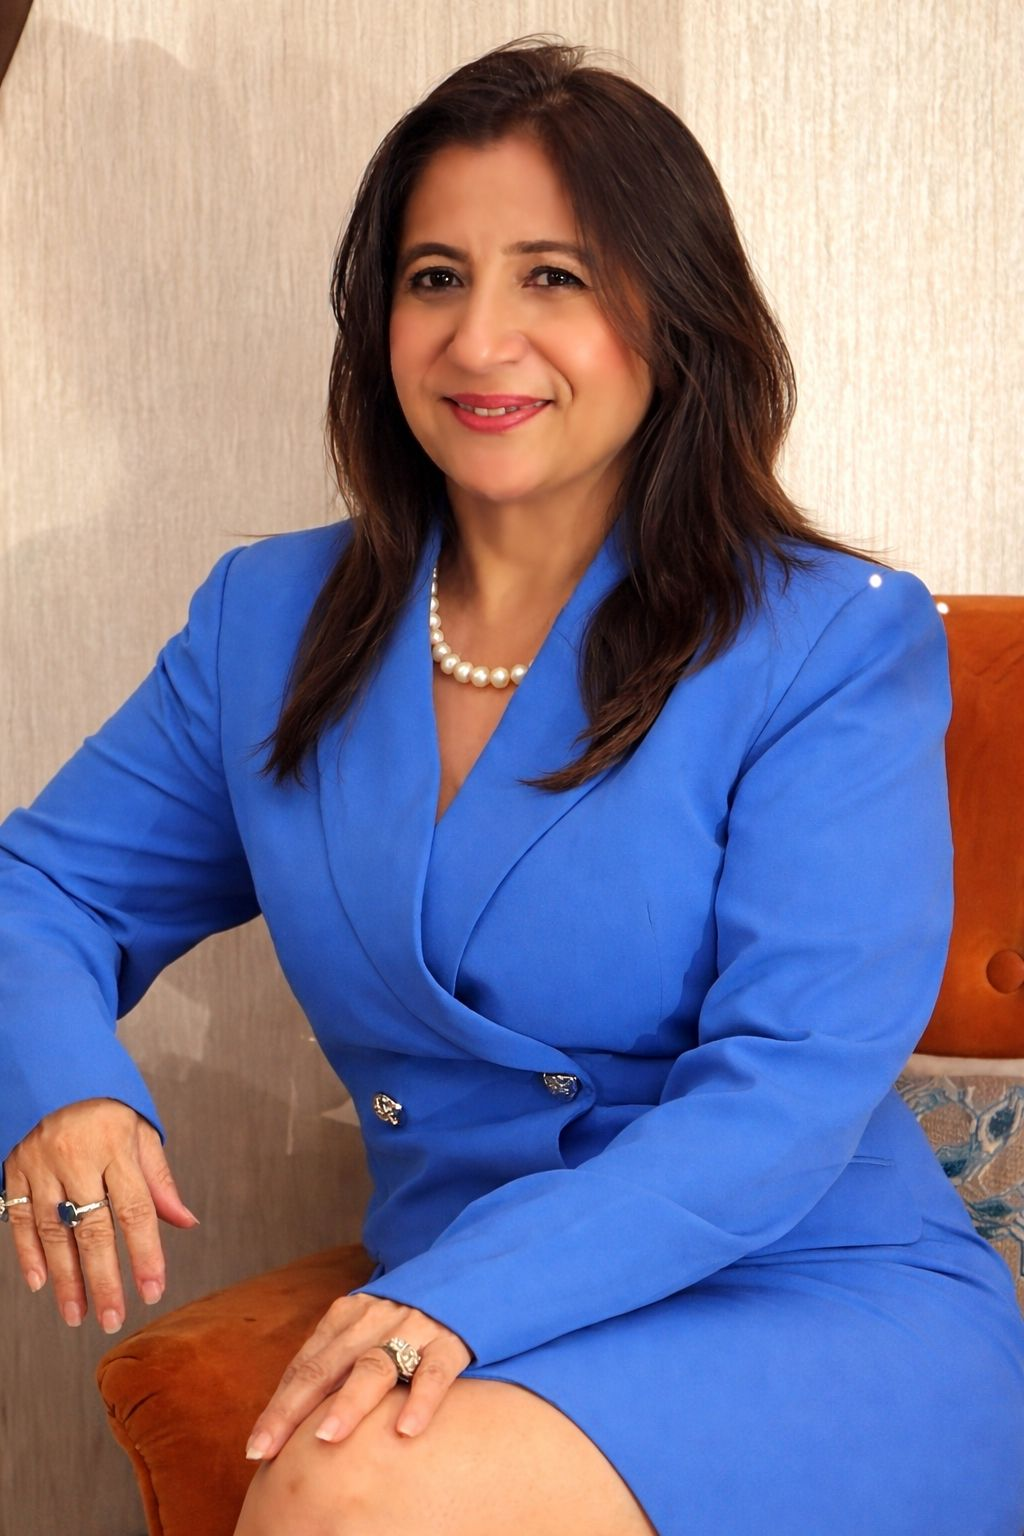
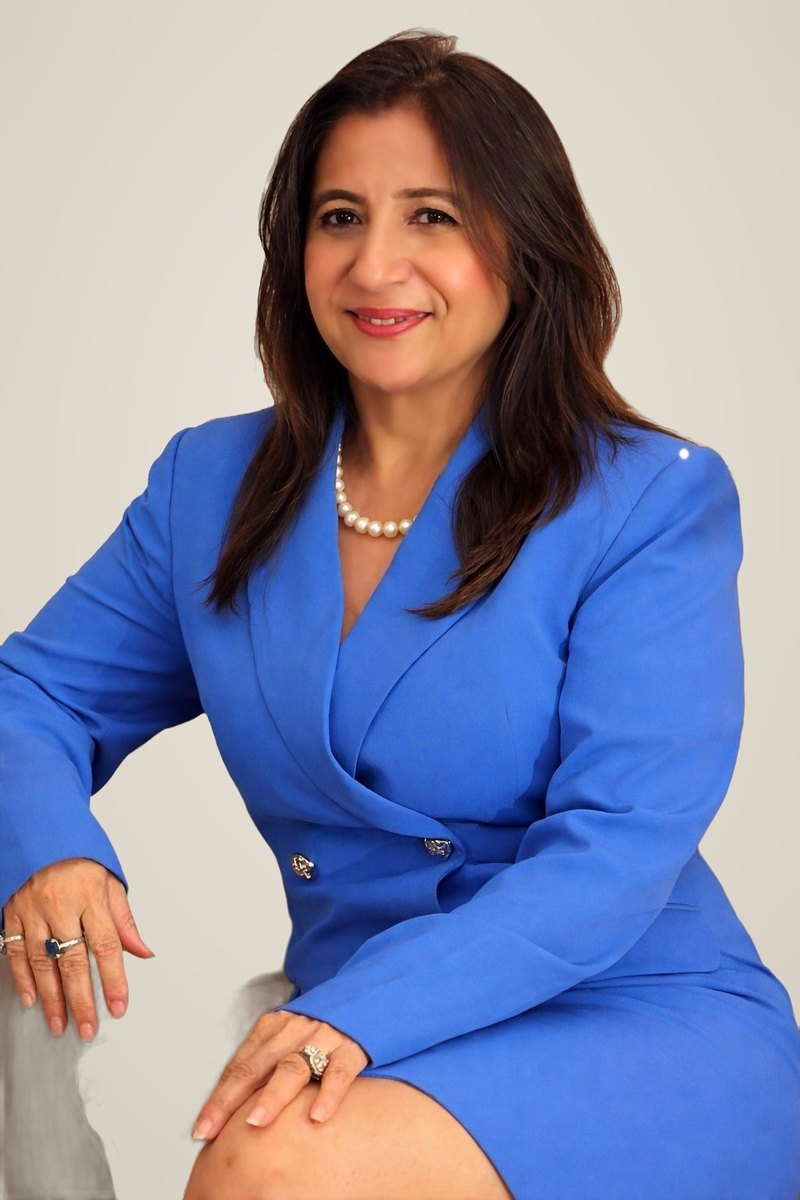
Put team photos on one backdrop and add the app QR to the navbar
Client replies to our 8 Oct questions: "any colour background" for Meet the
Team, and the app QR "next to contact".

Team: every member photo is cut out (rembg, isnet-general-use) and placed
on the same warm studio-grey backdrop, overwritten in place so Meet the
Team, the contact-page cards and the chat avatars all pick it up. Robin's
2 MB PNG becomes robin-singh-mann.jpg. Ashwani Kumar's photo is a tight
face crop, so it stays as it was.

Navbar: a QR button between Contact and Corporate opens a panel with the
App Store and Google Play codes; it closes on outside click or Escape.
The mobile menu gets a "Get the App" link to /#app instead. Pills tighten
below 1400px and 1260px, and the hamburger takes over below 1180px rather
than 1100px, so Book Now no longer scrolls off the strip on laptops.

diff --git a/src/components/Navbar.tsx b/src/components/Navbar.tsx
@@ -4,6 +4,7 @@ import Link from "next/link";
 import { useEffect, useRef, useState } from "react";
 import { gsap } from "gsap";
 import { useTheme } from "@/lib/theme";
+import { APP_STORE_URL, PLAY_STORE_URL, APP_QR } from "@/lib/app-links";
 import "./PillNav.css";
 
 function SunIcon({ size = 14 }: { size?: number }) {
@@ -32,6 +33,23 @@ function MoonIcon({ size = 14 }: { size?: number }) {
   );
 }
 
+function QrIcon({ size = 15 }: { size?: number }) {
+  return (
+    <svg width={size} height={size} viewBox="0 0 24 24" fill="none"
+      stroke="currentColor" strokeWidth={2} strokeLinecap="round" strokeLinejoin="round">
+      <rect x="3" y="3" width="7" height="7" rx="1" />
+      <rect x="14" y="3" width="7" height="7" rx="1" />
+      <rect x="3" y="14" width="7" height="7" rx="1" />
+      <path d="M14 14h3v3h-3zM20 14v.01M14 20h.01M17 20h4v-3" />
+    </svg>
+  );
+}
+
+const APP_QR_TILES = [
+  { platform: "iPhone", store: "App Store", href: APP_STORE_URL, qr: APP_QR.ios },
+  { platform: "Android", store: "Google Play", href: PLAY_STORE_URL, qr: APP_QR.android },
+];
+
 const NAV_LINKS = [
   { label: "About", href: "/about" },
   { label: "Our Fleet", href: "/fleet" },
@@ -53,6 +71,9 @@ interface NavbarProps {
 export default function Navbar({ overlay = false, wrapperRef, initialOpacity = 1 }: NavbarProps) {
   const { theme, toggle } = useTheme();
   const [mobileOpen, setMobileOpen] = useState(false);
+  const [qrOpen, setQrOpen] = useState(false);
+  const qrBtnRef = useRef<HTMLButtonElement | null>(null);
+  const qrPanelRef = useRef<HTMLDivElement | null>(null);
 
   const circleRefs = useRef<Array<HTMLSpanElement | null>>([]);
   const tlRefs = useRef<Array<gsap.core.Timeline | null>>([]);
@@ -120,6 +141,27 @@ export default function Navbar({ overlay = false, wrapperRef, initialOpacity = 1
 
     return () => window.removeEventListener("resize", layout);
   }, []);
+
+  // Close the app QR panel on an outside click or Escape.
+  useEffect(() => {
+    if (!qrOpen) return;
+    const onPointer = (e: PointerEvent) => {
+      const t = e.target as Node;
+      if (qrPanelRef.current?.contains(t) || qrBtnRef.current?.contains(t)) return;
+      setQrOpen(false);
+    };
+    const onKey = (e: KeyboardEvent) => {
+      if (e.key !== "Escape") return;
+      setQrOpen(false);
+      qrBtnRef.current?.focus();
+    };
+    document.addEventListener("pointerdown", onPointer);
+    document.addEventListener("keydown", onKey);
+    return () => {
+      document.removeEventListener("pointerdown", onPointer);
+      document.removeEventListener("keydown", onKey);
+    };
+  }, [qrOpen]);
 
   const handleEnter = (i: number) => {
     const tl = tlRefs.current[i];
@@ -245,6 +287,19 @@ export default function Navbar({ overlay = false, wrapperRef, initialOpacity = 1
             >
               {theme === "dark" ? <SunIcon size={14} /> : <MoonIcon size={14} />}
             </button>
+            {/* Client asked for the app QR code next to Contact and Corporate. */}
+            <button
+              ref={qrBtnRef}
+              className="pill-theme-btn"
+              onClick={() => setQrOpen(o => !o)}
+              aria-label="Get the Mann Fleet app — show QR codes"
+              aria-expanded={qrOpen}
+              aria-controls="nav-app-qr"
+              title="Get the app"
+              data-open={qrOpen || undefined}
+            >
+              <QrIcon />
+            </button>
             <a
               href="https://corporate.mannfleetpartners.com/"
               className="pill-corporate-link"
@@ -256,6 +311,28 @@ export default function Navbar({ overlay = false, wrapperRef, initialOpacity = 1
             <a href="/reservation" className="pill-book-btn" style={{ textDecoration: "none" }}>Book Now</a>
           </div>
         </div>
+
+        {/* App QR panel. Lives outside .pill-nav-items, whose horizontal
+            scroll would clip a dropdown. Desktop only: the button is hidden
+            with the rest of the actions below 1180px. */}
+        {qrOpen && (
+          <div id="nav-app-qr" ref={qrPanelRef} className="pill-qr-panel" role="dialog" aria-label="Get the Mann Fleet app">
+            <p className="pill-qr-title">Get the Mann Fleet app</p>
+            <div className="pill-qr-grid">
+              {APP_QR_TILES.map(({ platform, store, href, qr }) => (
+                <a key={store} href={href} target="_blank" rel="noopener noreferrer" className="pill-qr-tile">
+                  <span className="pill-qr-code">
+                    {/* eslint-disable-next-line @next/next/no-img-element */}
+                    <img src={qr} alt={`QR code for the ${store} listing`} width={112} height={112} />
+                  </span>
+                  <span className="pill-qr-label">{platform}</span>
+                  <span className="pill-qr-store">{store}</span>
+                </a>
+              ))}
+            </div>
+            <p className="pill-qr-hint">Scan with your phone camera</p>
+          </div>
+        )}
 
         {/* Hamburger (mobile) */}
         <button
@@ -289,6 +366,15 @@ export default function Navbar({ overlay = false, wrapperRef, initialOpacity = 1
                 onClick={() => setMobileOpen(false)}
               >
                 Book Now
+              </Link>
+            </li>
+            <li>
+              <Link
+                href="/#app"
+                className="pill-mobile-link"
+                onClick={() => setMobileOpen(false)}
+              >
+                Get the App
               </Link>
             </li>
             <li>

diff --git a/src/components/PillNav.css b/src/components/PillNav.css
@@ -167,6 +167,106 @@
   color: #ffffff;
 }
 
+.pill-theme-btn[data-open] {
+  background: rgba(255, 255, 255, 0.16);
+  color: #ffffff;
+}
+
+/* App QR panel — dropdown under the nav, anchored to its right edge */
+.pill-qr-panel {
+  position: absolute;
+  top: calc(100% + 10px);
+  right: 0;
+  z-index: 60;
+  width: 296px;
+  padding: 16px 16px 14px;
+  background: rgba(20, 17, 14, 0.94);
+  border: 1px solid rgba(255, 255, 255, 0.12);
+  border-radius: 20px;
+  backdrop-filter: blur(24px) saturate(160%);
+  -webkit-backdrop-filter: blur(24px) saturate(160%);
+  box-shadow: 0 18px 50px rgba(0, 0, 0, 0.45);
+  font-family: var(--font-geist-sans, sans-serif);
+  animation: pill-qr-in 0.18s ease-out;
+}
+
+@keyframes pill-qr-in {
+  from { opacity: 0; transform: translateY(-6px); }
+  to { opacity: 1; transform: none; }
+}
+
+@media (prefers-reduced-motion: reduce) {
+  .pill-qr-panel { animation: none; }
+}
+
+.pill-qr-title,
+.pill-qr-hint {
+  margin: 0;
+  text-align: center;
+}
+
+.pill-qr-title {
+  color: #ffffff;
+  font-size: 11px;
+  font-weight: 700;
+  letter-spacing: 0.10em;
+  text-transform: uppercase;
+  margin-bottom: 12px;
+}
+
+.pill-qr-hint {
+  color: rgba(255, 255, 255, 0.5);
+  font-size: 11px;
+  margin-top: 10px;
+}
+
+.pill-qr-grid {
+  display: grid;
+  grid-template-columns: 1fr 1fr;
+  gap: 10px;
+}
+
+.pill-qr-tile {
+  display: flex;
+  flex-direction: column;
+  align-items: center;
+  text-decoration: none;
+  border-radius: 14px;
+  padding: 6px 4px 8px;
+  transition: background 0.2s ease;
+}
+
+.pill-qr-tile:hover {
+  background: rgba(255, 255, 255, 0.06);
+}
+
+/* Solid white behind the code so scanners get contrast */
+.pill-qr-code {
+  display: block;
+  background: #ffffff;
+  border-radius: 10px;
+  padding: 6px;
+  line-height: 0;
+}
+
+.pill-qr-code img {
+  width: 112px;
+  height: 112px;
+  display: block;
+}
+
+.pill-qr-label {
+  margin-top: 8px;
+  color: #ffffff;
+  font-size: 12px;
+  font-weight: 600;
+}
+
+.pill-qr-store {
+  color: rgba(255, 255, 255, 0.5);
+  font-size: 11px;
+}
+
 /* Corporate link — text-only red action beside Book Now */
 .pill-corporate-link {
   color: #ff2020;
@@ -309,7 +409,24 @@
 }
 
 /* Responsive */
-@media (max-width: 1100px) {
+/* The full bar is ~1175px wide; on narrower desktops tighten the pills so
+   Book Now stays in view instead of scrolling off the end of the strip. */
+@media (max-width: 1400px) {
+  .pill-item {
+    padding: 0 12px;
+    letter-spacing: 0.10em;
+  }
+}
+
+@media (max-width: 1260px) {
+  .pill-item {
+    padding: 0 9px;
+    font-size: 10.5px;
+    letter-spacing: 0.08em;
+  }
+}
+
+@media (max-width: 1180px) {
   .pill-nav-items,
   .pill-nav-actions {
     display: none;

diff --git a/src/app/meet-the-team/page.tsx b/src/app/meet-the-team/page.tsx
@@ -69,7 +69,7 @@ const LEADERS: Leader[] = [
     name: "Mr. Robin Singh Mann",
     title: "Executive Director and Head of Marketing",
     email: "robin@manntours.com",
-    photo: "/teams/Robin%20Mann%20Sir%20photo.png",
+    photo: "/teams/robin-singh-mann.jpg",
     objectPosition: "top",
     teaser:
       "Columbia University honours graduate and former Evercore Investment Banking Analyst, now leading growth and marketing strategy at Mann Fleet.",
